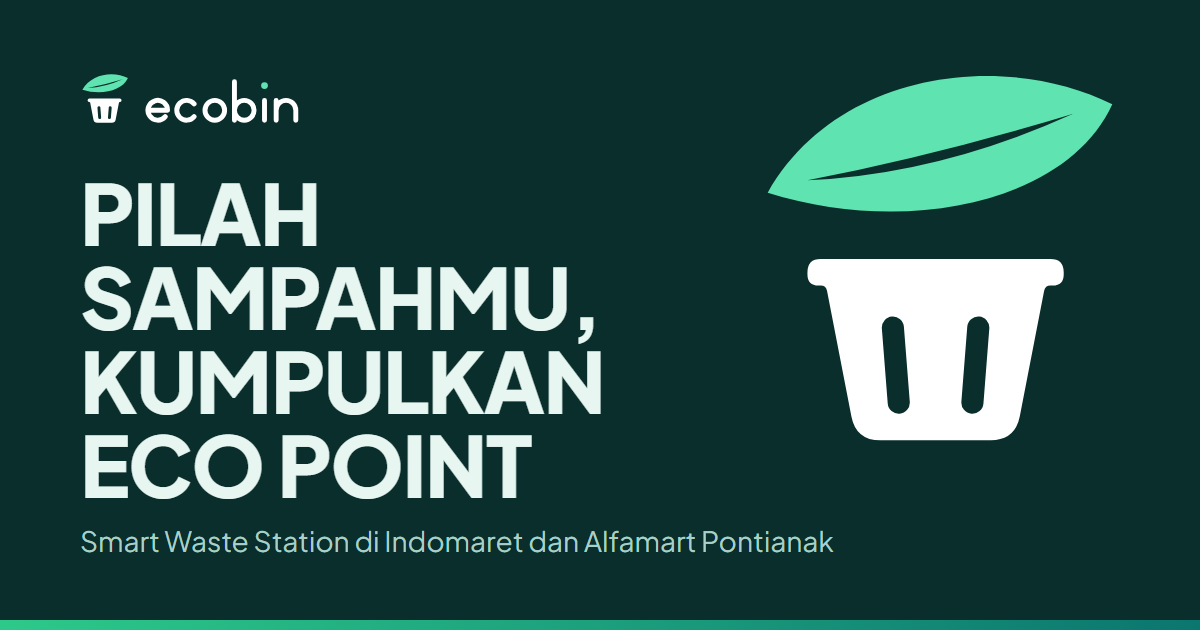
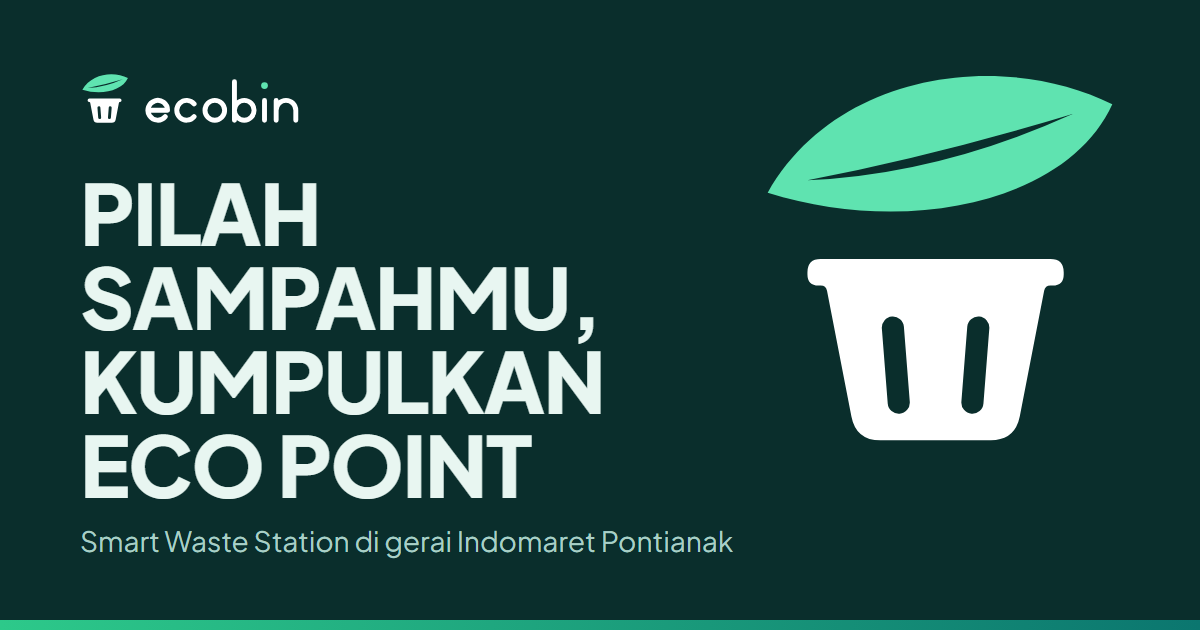
fix: Remove Alfamart

Changed region(s): [[0.3083, 0.8444, 0.7092, 0.8746]]

diff --git a/assets/js/data.js b/assets/js/data.js
@@ -19,7 +19,7 @@ window.ECOBIN_DATA = {
 
   benefits: {
     pengguna: [
-      { title: "Setor sambil belanja", text: "Stasiun ada di gerai Indomaret dan Alfamart. Bawa sampahmu sekalian waktu belanja, tanpa perlu ke tempat khusus." },
+      { title: "Setor sambil belanja", text: "Stasiun ada di gerai Indomaret. Bawa sampahmu sekalian waktu belanja, tanpa perlu ke tempat khusus." },
       { title: "Dicek otomatis", text: "Kamera dan sensor langsung memeriksa sampahmu. Tidak perlu menunggu petugas atau jam buka tertentu." },
       { title: "Dapat Eco Point", text: "Setiap setoran yang diterima menambah Eco Point. Kumpulkan, lalu tukarkan dengan voucher belanja." },
       { title: "Riwayat tercatat", text: "Jenis, berat, dan poin dari setiap setoran tersimpan di akunmu dan bisa dilihat kapan saja." }
@@ -37,7 +37,7 @@ window.ECOBIN_DATA = {
     { title: "Masukkan", text: "Masukkan sampah ke lubang sesuai kategorinya." },
     { title: "Dicek dan ditimbang", text: "Kamera AI mengenali jenisnya, load cell mengukur beratnya." },
     { title: "Dapat Eco Point", text: "Poin masuk ke akunmu sesuai jenis dan berat sampah." },
-    { title: "Tukar voucher", text: "Tukarkan Eco Point dengan voucher belanja Indomaret atau Alfamart." }
+    { title: "Tukar voucher", text: "Tukarkan Eco Point dengan voucher belanja Indomaret." }
   ],
 
   behindTheScenes: [
@@ -69,23 +69,19 @@ window.ECOBIN_DATA = {
 
   locations: [
     { retailer: "Indomaret", name: "Indomaret Ahmad Yani", address: "Jl. Ahmad Yani, Pontianak Selatan", status: "aktif" },
-    { retailer: "Alfamart", name: "Alfamart Gajah Mada", address: "Jl. Gajah Mada, Pontianak Kota", status: "aktif" },
     { retailer: "Indomaret", name: "Indomaret Reformasi", address: "Jl. Reformasi, Pontianak Tenggara", status: "aktif" },
-    { retailer: "Alfamart", name: "Alfamart Tanjungpura", address: "Jl. Tanjungpura, Pontianak Timur", status: "aktif" },
-    { retailer: "Indomaret", name: "Indomaret Prof. M. Yamin", address: "Jl. Prof. M. Yamin, Pontianak Kota", status: "segera" },
-    { retailer: "Alfamart", name: "Alfamart Khatulistiwa", address: "Jl. Khatulistiwa, Pontianak Utara", status: "segera" }
+    { retailer: "Indomaret", name: "Indomaret Prof. M. Yamin", address: "Jl. Prof. M. Yamin, Pontianak Kota", status: "segera" }
   ],
 
   services: [
-    { id: "station", title: "Smart Waste Station", text: "Unit setor sampah dengan kamera AI, sensor, dan load cell. Dirakit dan dirawat langsung oleh tim EcoBin.", soon: false },
-    { id: "app", title: "Aplikasi Member dan Eco Point", text: "QR membership, saldo Eco Point, riwayat setoran, dan penukaran voucher dalam satu aplikasi.", soon: true },
-    { id: "dashboard", title: "Dashboard Pengelola", text: "Pantau isi tiap unit, volume per jenis sampah, dan jadwal angkut dari satu layar.", soon: true },
-    { id: "csr", title: "Kemitraan CSR dan Sponsorship", text: "Program lingkungan bersama brand Anda, dengan laporan dampak dari data setoran nyata.", soon: false }
+    { id: "station", title: "Smart Waste Station", text: "Unit setor sampah dengan kamera AI, sensor, dan load cell. Dirakit dan dirawat langsung oleh tim EcoBin." },
+    { id: "app", title: "Aplikasi Member dan Eco Point", text: "QR membership, saldo Eco Point, riwayat setoran, dan penukaran voucher dalam satu aplikasi.", link: { label: "Buka aplikasi", href: "https://ecobin-app-self.vercel.app" } },
+    { id: "dashboard", title: "Dashboard Pengelola", text: "Pantau isi tiap unit, volume per jenis sampah, dan jadwal angkut dari satu layar.", link: { label: "Masuk sebagai pengelola", href: "https://ecobin-app-self.vercel.app/masuk" } },
+    { id: "csr", title: "Kemitraan CSR dan Sponsorship", text: "Program lingkungan bersama brand Anda, dengan laporan dampak dari data setoran nyata.", link: { label: "Ajukan kemitraan", href: "#jadi-mitra" } }
   ],
 
   partners: [
     { name: "Indomaret", role: "Lokasi dan reward" },
-    { name: "Alfamart", role: "Lokasi dan reward" },
     { name: "Bank Sampah Mitra", role: "Pengolah sampah" },
     { name: "Mitra Daur Ulang", role: "Pengolah sampah" }
   ],
@@ -101,7 +97,7 @@ window.ECOBIN_DATA = {
     { q: "Sampah apa saja yang diterima?", a: "Saat ini stasiun menerima sampah organik, anorganik, dan residu yang sudah dipilah. Daftar kategori bisa bertambah sesuai kemampuan stasiun dan kebutuhan mitra pengolah." },
     { q: "Kenapa sampah saya ditolak?", a: "Stasiun menolak sampah yang tercampur atau tidak sesuai dengan lubang kategorinya, lalu mengeluarkannya kembali. Pisahkan ulang sampahmu dan masukkan ke lubang yang sesuai." },
     { q: "Bagaimana Eco Point dihitung?", a: "Eco Point dihitung dari jenis dan berat sampah yang diterima. Nilai poin per kategori ditetapkan oleh pengelola EcoBin bersama mitra dan bisa berubah. Setoran yang ditolak tidak menghasilkan poin." },
-    { q: "Bagaimana cara menukar Eco Point?", a: "Buka menu Reward di aplikasi, pilih voucher Indomaret atau Alfamart yang poinnya cukup, lalu tunjukkan kode voucher di kasir." },
+    { q: "Bagaimana cara menukar Eco Point?", a: "Buka menu Reward di aplikasi, pilih voucher Indomaret yang poinnya cukup, lalu tunjukkan kode voucher di kasir." },
     { q: "Bagaimana cara menjadi mitra EcoBin?", a: "Isi formulir kemitraan di bagian bawah halaman ini. Tim kami akan menghubungi Anda untuk membahas bentuk kerja sama." }
   ],
 

diff --git a/assets/css/style.css b/assets/css/style.css
@@ -117,7 +117,7 @@ button, input, select, textarea { font: inherit; color: inherit; }
 .btn--outline-light { border-color: rgba(232, 246, 241, .5); color: var(--mist); }
 .btn--outline-light:hover { border-color: var(--mint); color: var(--mint); }
 .btn--ghost { border-color: var(--line-strong); color: var(--ink); }
-.btn.is-disabled { cursor: not-allowed; color: var(--ink-soft); border-style: dashed; }
+.btn--ghost:hover { border-color: var(--teal); }
 
 .tag {
   display: inline-block; padding: .125rem .5rem; border-radius: 999px;
@@ -167,7 +167,8 @@ button, input, select, textarea { font: inherit; color: inherit; }
 .nav-links a:hover, .nav-links a[aria-current="true"] { border-bottom-color: var(--leaf); }
 .site-header.is-solid .nav-links a { color: var(--ink); }
 .nav-actions { display: flex; align-items: center; gap: .75rem; }
-.site-header:not(.is-solid) .btn--ghost { border-color: rgba(232, 246, 241, .35); color: var(--on-night-soft); }
+.site-header:not(.is-solid) .btn--ghost { border-color: rgba(232, 246, 241, .45); color: var(--mist); }
+.site-header:not(.is-solid) .btn--ghost:hover { border-color: var(--mint); color: var(--mint); }
 
 @media (max-width: 960px) {
   .nav-toggle { display: grid; }
@@ -182,7 +183,7 @@ button, input, select, textarea { font: inherit; color: inherit; }
   .nav-links a, .site-header:not(.is-solid) .nav-links a { display: block; color: var(--ink); padding: .875rem 0; border-bottom: 1px solid var(--line); font-size: var(--fs-md); }
   .nav-actions { flex-direction: column-reverse; align-items: stretch; }
   .nav-actions .btn { min-height: 52px; }
-  .site-header:not(.is-solid) .btn--ghost { border-color: var(--line-strong); color: var(--ink-soft); }
+  .site-header:not(.is-solid) .btn--ghost, .site-header:not(.is-solid) .btn--ghost:hover { border-color: var(--line-strong); color: var(--ink); }
   .site-header.menu-open { background: var(--white); }
   .site-header.menu-open .brand-logo--dark { display: block; }
   .site-header.menu-open .brand-logo--light { display: none; }
@@ -377,14 +378,6 @@ button, input, select, textarea { font: inherit; color: inherit; }
 .impact-label { display: block; margin-top: .75rem; color: var(--on-night-soft); }
 
 /* ---------- 06 Lokasi ---------- */
-.filter { display: flex; flex-wrap: wrap; gap: .5rem; margin-top: 1.75rem; }
-.chip {
-  min-height: 44px; padding: .5rem 1.125rem; border: 2px solid var(--line-strong); border-radius: 999px;
-  background: var(--white); font-weight: 700; font-size: var(--fs-sm); cursor: pointer;
-  transition: background-color .2s, border-color .2s, color .2s;
-}
-.chip:hover { border-color: var(--teal); }
-.chip[aria-pressed="true"] { background: var(--night); border-color: var(--night); color: var(--mist); }
 .map-art { width: 100%; height: auto; }
 
 .location-grid { display: grid; grid-template-columns: repeat(3, 1fr); gap: 1rem; margin-top: 2.5rem; }
@@ -392,7 +385,6 @@ button, input, select, textarea { font: inherit; color: inherit; }
   display: grid; grid-template-columns: auto 1fr; gap: 1rem; align-items: start;
   padding: 1.25rem; border: 1px solid var(--line); border-radius: var(--radius); background: var(--white);
 }
-.location[hidden] { display: none; }
 .location-icon { display: grid; place-items: center; width: 44px; height: 44px; border-radius: var(--radius-sm); background: var(--mist); color: var(--teal); }
 .location h3 { font-size: var(--fs-base); line-height: 1.35; }
 .location p { color: var(--ink-soft); font-size: var(--fs-sm); margin: .125rem 0 .625rem; }
@@ -410,7 +402,13 @@ button, input, select, textarea { font: inherit; color: inherit; }
 .service-icon .icon { width: 28px; height: 28px; }
 .service h3 { font-size: var(--fs-lg); line-height: 1.25; margin-top: 2rem; }
 .service p { color: var(--ink-soft); max-width: 46ch; }
-.service .tag { position: absolute; top: 2rem; right: 2rem; }
+.service-link {
+  display: inline-flex; align-items: center; gap: .25rem; align-self: flex-start; margin-top: .25rem;
+  min-height: 44px; font-weight: 700; color: var(--teal); text-decoration: none;
+}
+.service-link:hover { text-decoration: underline; text-underline-offset: 3px; }
+.service-link .icon { width: 1.1em; height: 1.1em; transition: transform .2s var(--ease); }
+.service-link:hover .icon { transform: translateX(3px); }
 
 /* ---------- 08 Mitra & testimoni ---------- */
 .partner-list { display: flex; flex-wrap: wrap; gap: .75rem; margin-top: 2.5rem; }
@@ -546,7 +544,6 @@ button, input, select, textarea { font: inherit; color: inherit; }
   .tab-list, .tabs--center .tab-list { display: flex; width: auto; }
   .tab { flex: 1; padding-inline: .75rem; }
   .service { padding: 1.5rem; min-height: 0; }
-  .service .tag { top: 1.5rem; right: 1.5rem; }
   .footer-grid { grid-template-columns: 1fr; }
   .faq-item p { padding-right: 0; }
 }

diff --git a/index.html b/index.html
@@ -4,12 +4,12 @@
   <meta charset="utf-8">
   <meta name="viewport" content="width=device-width, initial-scale=1">
   <title>EcoBin · Pilah sampahmu, kumpulkan Eco Point</title>
-  <meta name="description" content="EcoBin adalah Smart Waste Station di gerai Indomaret dan Alfamart Pontianak. Setor sampah terpilah, dapat Eco Point, tukar dengan voucher belanja.">
+  <meta name="description" content="EcoBin adalah Smart Waste Station di gerai Indomaret Pontianak. Setor sampah terpilah, dapat Eco Point, tukar dengan voucher belanja.">
   <meta name="theme-color" content="#0A2E2C">
 
   <meta property="og:type" content="website">
   <meta property="og:title" content="EcoBin · Pilah sampahmu, kumpulkan Eco Point">
-  <meta property="og:description" content="Smart Waste Station di gerai Indomaret dan Alfamart Pontianak. Setor sampah terpilah, dapat Eco Point, tukar dengan voucher belanja.">
+  <meta property="og:description" content="Smart Waste Station di gerai Indomaret Pontianak. Setor sampah terpilah, dapat Eco Point, tukar dengan voucher belanja.">
   <meta property="og:image" content="assets/img/og-image.png">
 
   <link rel="icon" href="assets/img/favicon.svg" type="image/svg+xml">
@@ -73,9 +73,7 @@
           <li><a href="#faq">FAQ</a></li>
         </ul>
         <div class="nav-actions">
-          <span class="btn btn--ghost is-disabled" aria-disabled="true">
-            Masuk Aplikasi <span class="tag tag--soon">Segera hadir</span>
-          </span>
+          <a class="btn btn--ghost" href="https://ecobin-app-self.vercel.app">Masuk Aplikasi</a>
           <a class="btn btn--primary" href="#jadi-mitra">Jadi Mitra</a>
         </div>
       </nav>
@@ -88,7 +86,7 @@
       <div class="container hero-grid">
         <div class="hero-copy">
           <h1 class="hero-title" id="hero-title">Pilah sampahmu, kumpulkan Eco Point</h1>
-          <p class="hero-lead">Setor sampah terpilah di Smart Waste Station EcoBin di Indomaret dan Alfamart Pontianak, lalu tukarkan poinnya dengan voucher belanja.</p>
+          <p class="hero-lead">Setor sampah terpilah di Smart Waste Station EcoBin di Indomaret Pontianak, lalu tukarkan poinnya dengan voucher belanja.</p>
           <div class="hero-actions">
             <a class="btn btn--primary btn--lg" href="#cara-kerja">Lihat Cara Kerja</a>
             <a class="btn btn--outline-light btn--lg" href="#jadi-mitra">Jadi Mitra</a>
@@ -164,7 +162,7 @@
           <h2 class="section-title" id="tentang-title">Sampah yang dipilah punya nilai</h2>
           <div class="prose">
             <p>Organik, plastik, kertas, dan residu masih sering berakhir di satu kantong. Begitu tercampur, sampah sulit diolah dan bahan yang sebenarnya bisa didaur ulang ikut terbuang.</p>
-            <p>EcoBin menaruh Smart Waste Station di gerai Indomaret dan Alfamart yang sudah kamu kunjungi setiap minggu. Stasiun memeriksa sampahmu, mencatat beratnya, dan memberimu Eco Point. Sampah yang terkumpul kami salurkan ke mitra pengolah sesuai jenisnya.</p>
+            <p>EcoBin menaruh Smart Waste Station di gerai Indomaret yang sudah kamu kunjungi setiap minggu. Stasiun memeriksa sampahmu, mencatat beratnya, dan memberimu Eco Point. Sampah yang terkumpul kami salurkan ke mitra pengolah sesuai jenisnya.</p>
           </div>
         </div>
 
@@ -237,16 +235,11 @@
         <div class="split split--center">
           <div>
             <h2 class="section-title" id="lokasi-title">Cari stasiun terdekat</h2>
-            <p class="lead">Stasiun EcoBin pertama hadir di Pontianak. Pilih jaringan gerai untuk menyaring daftar.</p>
-            <div class="filter" role="group" aria-label="Saring lokasi berdasarkan gerai" data-filter>
-              <button class="chip" type="button" aria-pressed="true" data-value="semua">Semua</button>
-              <button class="chip" type="button" aria-pressed="false" data-value="Indomaret">Indomaret</button>
-              <button class="chip" type="button" aria-pressed="false" data-value="Alfamart">Alfamart</button>
-            </div>
+            <p class="lead">Stasiun EcoBin pertama hadir di gerai Indomaret Pontianak. Setor sampahmu sekalian waktu belanja.</p>
           </div>
           <img class="map-art" src="assets/img/illustrations/peta-pontianak.svg" alt="" width="520" height="300">
         </div>
-        <ul class="location-grid" data-locations aria-live="polite"></ul>
+        <ul class="location-grid" data-locations></ul>
       </div>
     </section>
 

diff --git a/assets/js/main.js b/assets/js/main.js
@@ -87,7 +87,7 @@
       var status = loc.status === "aktif"
         ? '<span class="tag tag--active">Aktif</span>'
         : '<span class="tag tag--soon">Segera Hadir</span>';
-      return '<li class="location" data-retailer="' + escapeHtml(loc.retailer) + '">' +
+      return '<li class="location">' +
         '<span class="location-icon">' + icon("store") + "</span>" +
         "<div><h3>" + escapeHtml(loc.name) + "</h3><p>" + escapeHtml(loc.address) + "</p>" + status + "</div></li>";
     });
@@ -95,8 +95,9 @@
     var serviceIcons = { station: "bin", app: "qr", dashboard: "chart", csr: "leaf" };
     render("[data-services]", data.services, function (service) {
       return '<li class="service"><span class="service-icon">' + icon(serviceIcons[service.id] || "leaf") + "</span>" +
-        (service.soon ? '<span class="tag tag--soon">Segera hadir</span>' : "") +
-        "<h3>" + escapeHtml(service.title) + "</h3><p>" + escapeHtml(service.text) + "</p></li>";
+        "<h3>" + escapeHtml(service.title) + "</h3><p>" + escapeHtml(service.text) + "</p>" +
+        (service.link ? '<a class="service-link" href="' + escapeHtml(service.link.href) + '">' + escapeHtml(service.link.label) + icon("next") + "</a>" : "") +
+        "</li>";
     });
 
     render("[data-partners]", data.partners, function (partner) {
@@ -207,21 +208,6 @@
         if (e.key === "Home") next = tabs[0];
         if (e.key === "End") next = tabs[tabs.length - 1];
         if (next) { e.preventDefault(); select(next); next.focus(); }
-      });
-    });
-  }
-
-  /* ---------- Filter lokasi ---------- */
-
-  function initFilter() {
-    var chips = $all("[data-filter] .chip");
-    chips.forEach(function (chip) {
-      chip.addEventListener("click", function () {
-        var value = chip.dataset.value;
-        chips.forEach(function (c) { c.setAttribute("aria-pressed", String(c === chip)); });
-        $all("[data-locations] .location").forEach(function (loc) {
-          loc.hidden = value !== "semua" && loc.dataset.retailer !== value;
-        });
       });
     });
   }
@@ -363,7 +349,6 @@
   renderContent();
   initHeader();
   initTabs();
-  initFilter();
   initSlider();
   initCounters();
   initReveal();

diff --git a/README.md b/README.md
@@ -33,5 +33,5 @@ assets/
 ## Catatan
 
 - Form "Jadi Mitra" hanya simulasi: data divalidasi lalu muncul pesan sukses, tanpa dikirim ke mana pun.
-- Tombol "Masuk Aplikasi" sengaja dinonaktifkan sampai website pengguna selesai.
+- Tombol "Masuk Aplikasi" dan link di kartu Layanan mengarah ke aplikasi EcoBin di https://ecobin-app-self.vercel.app (alamatnya diatur di `index.html` dan `assets/js/data.js`).
 - Animasi otomatis mati bila pengaturan perangkat "kurangi gerakan" aktif.
